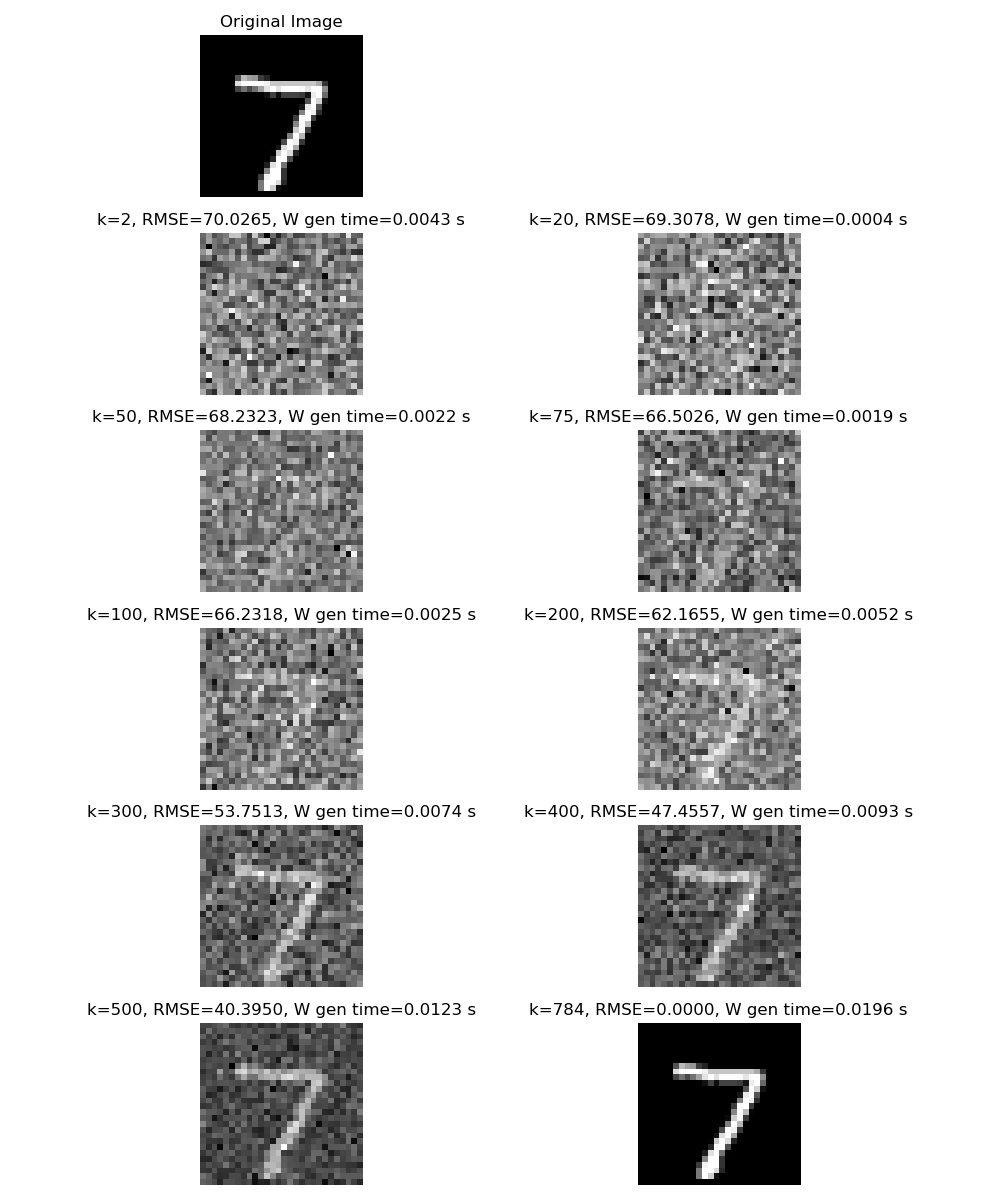
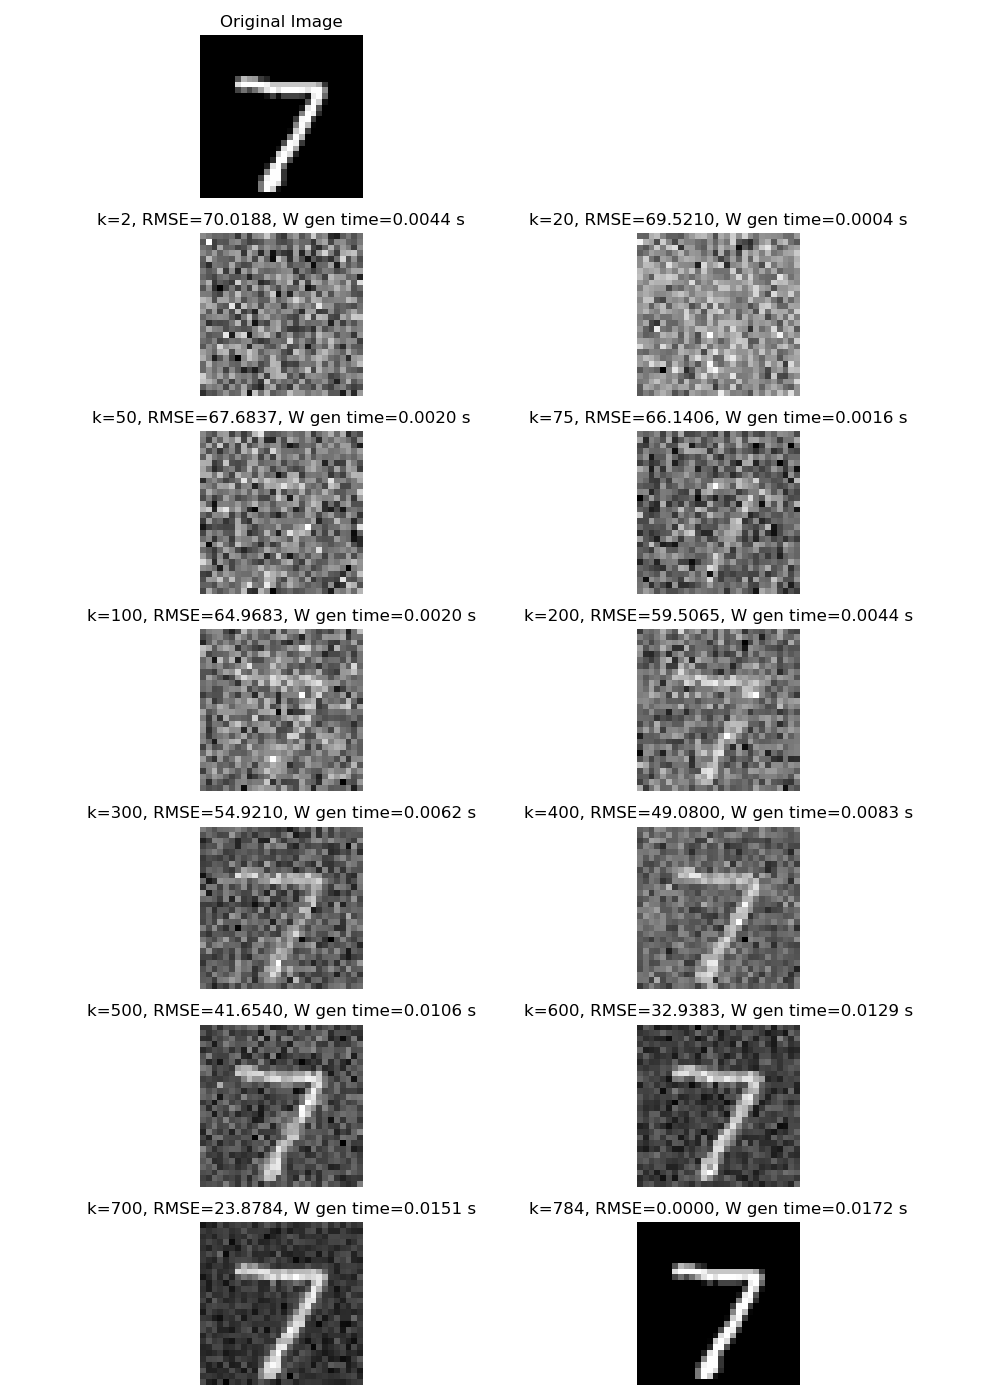
add

diff --git a/combined_model.py b/combined_model.py
@@ -168,5 +168,5 @@ if __name__ == '__main__':
 sample_digit_pixels = mnist_df.iloc[0, 1:].values
 
 # Visualize reconstructions for RP 
-plot_reconstructed_images(sample_digit_pixels, [2, 20, 50, 75, 100, 200, 300, 400, 500, 784])
+plot_reconstructed_images(sample_digit_pixels, [2, 20, 50, 75, 100, 200, 300, 400, 500, 600, 700, 784])
 
